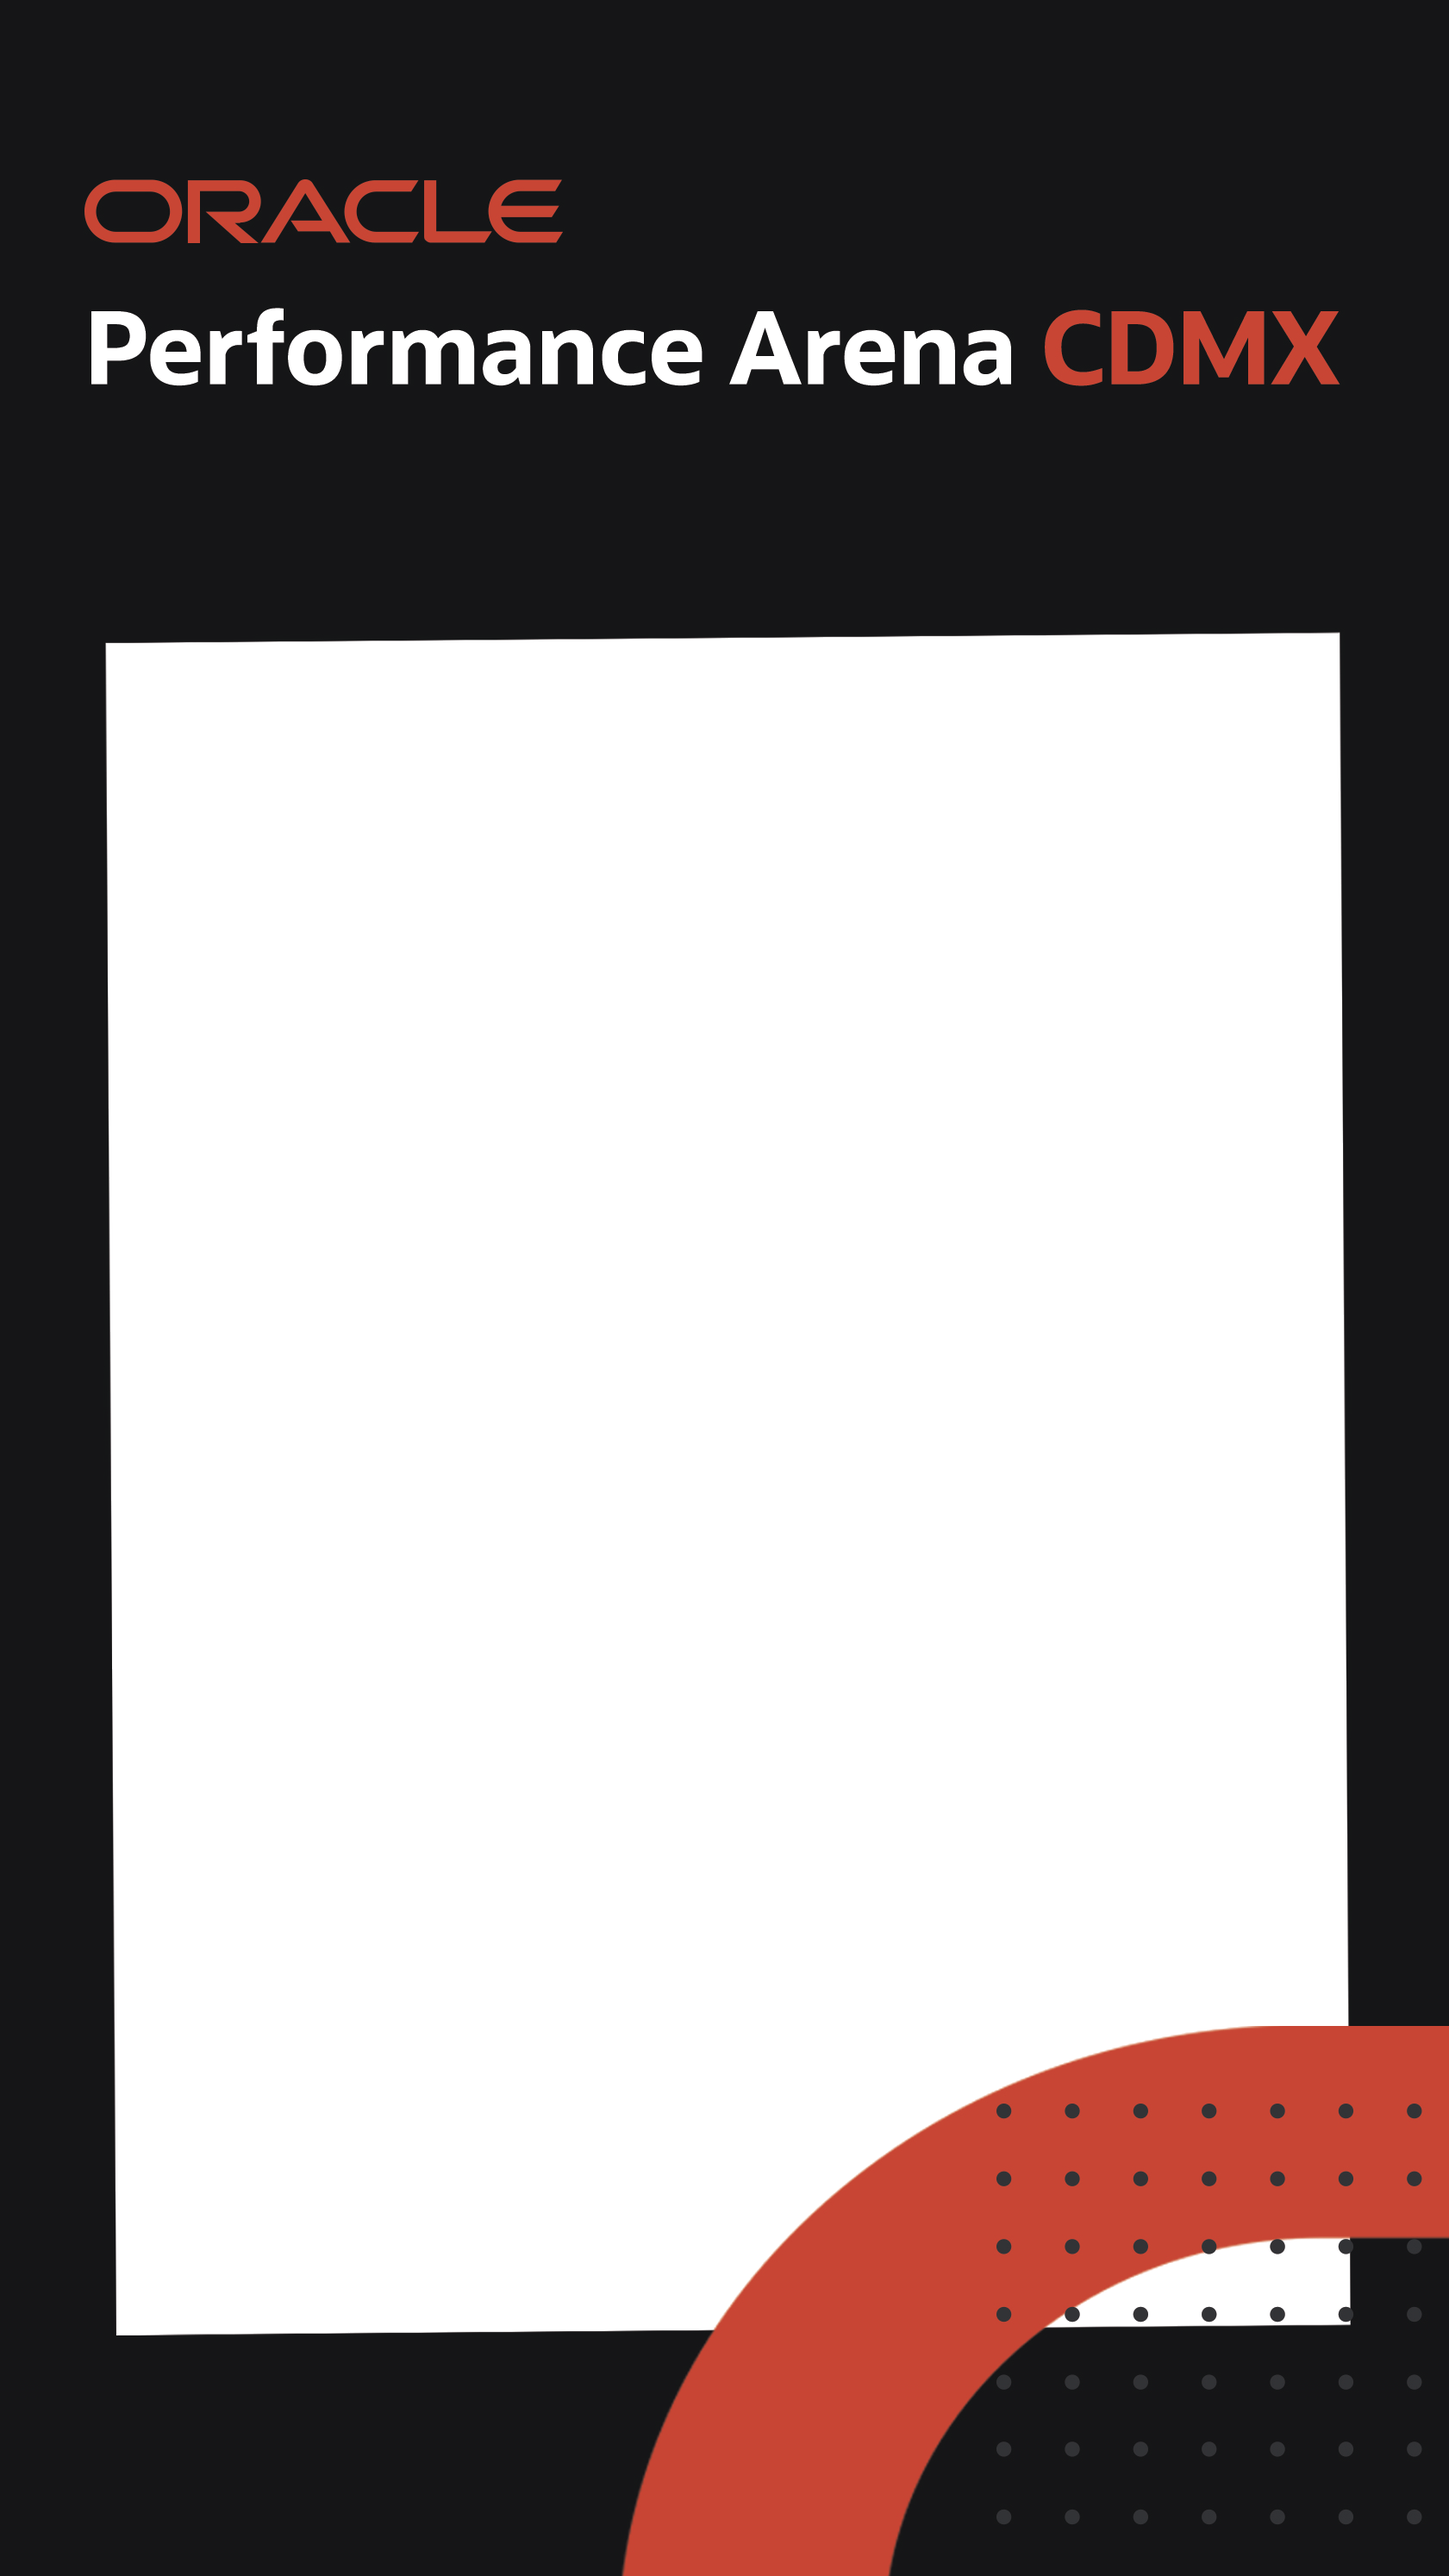
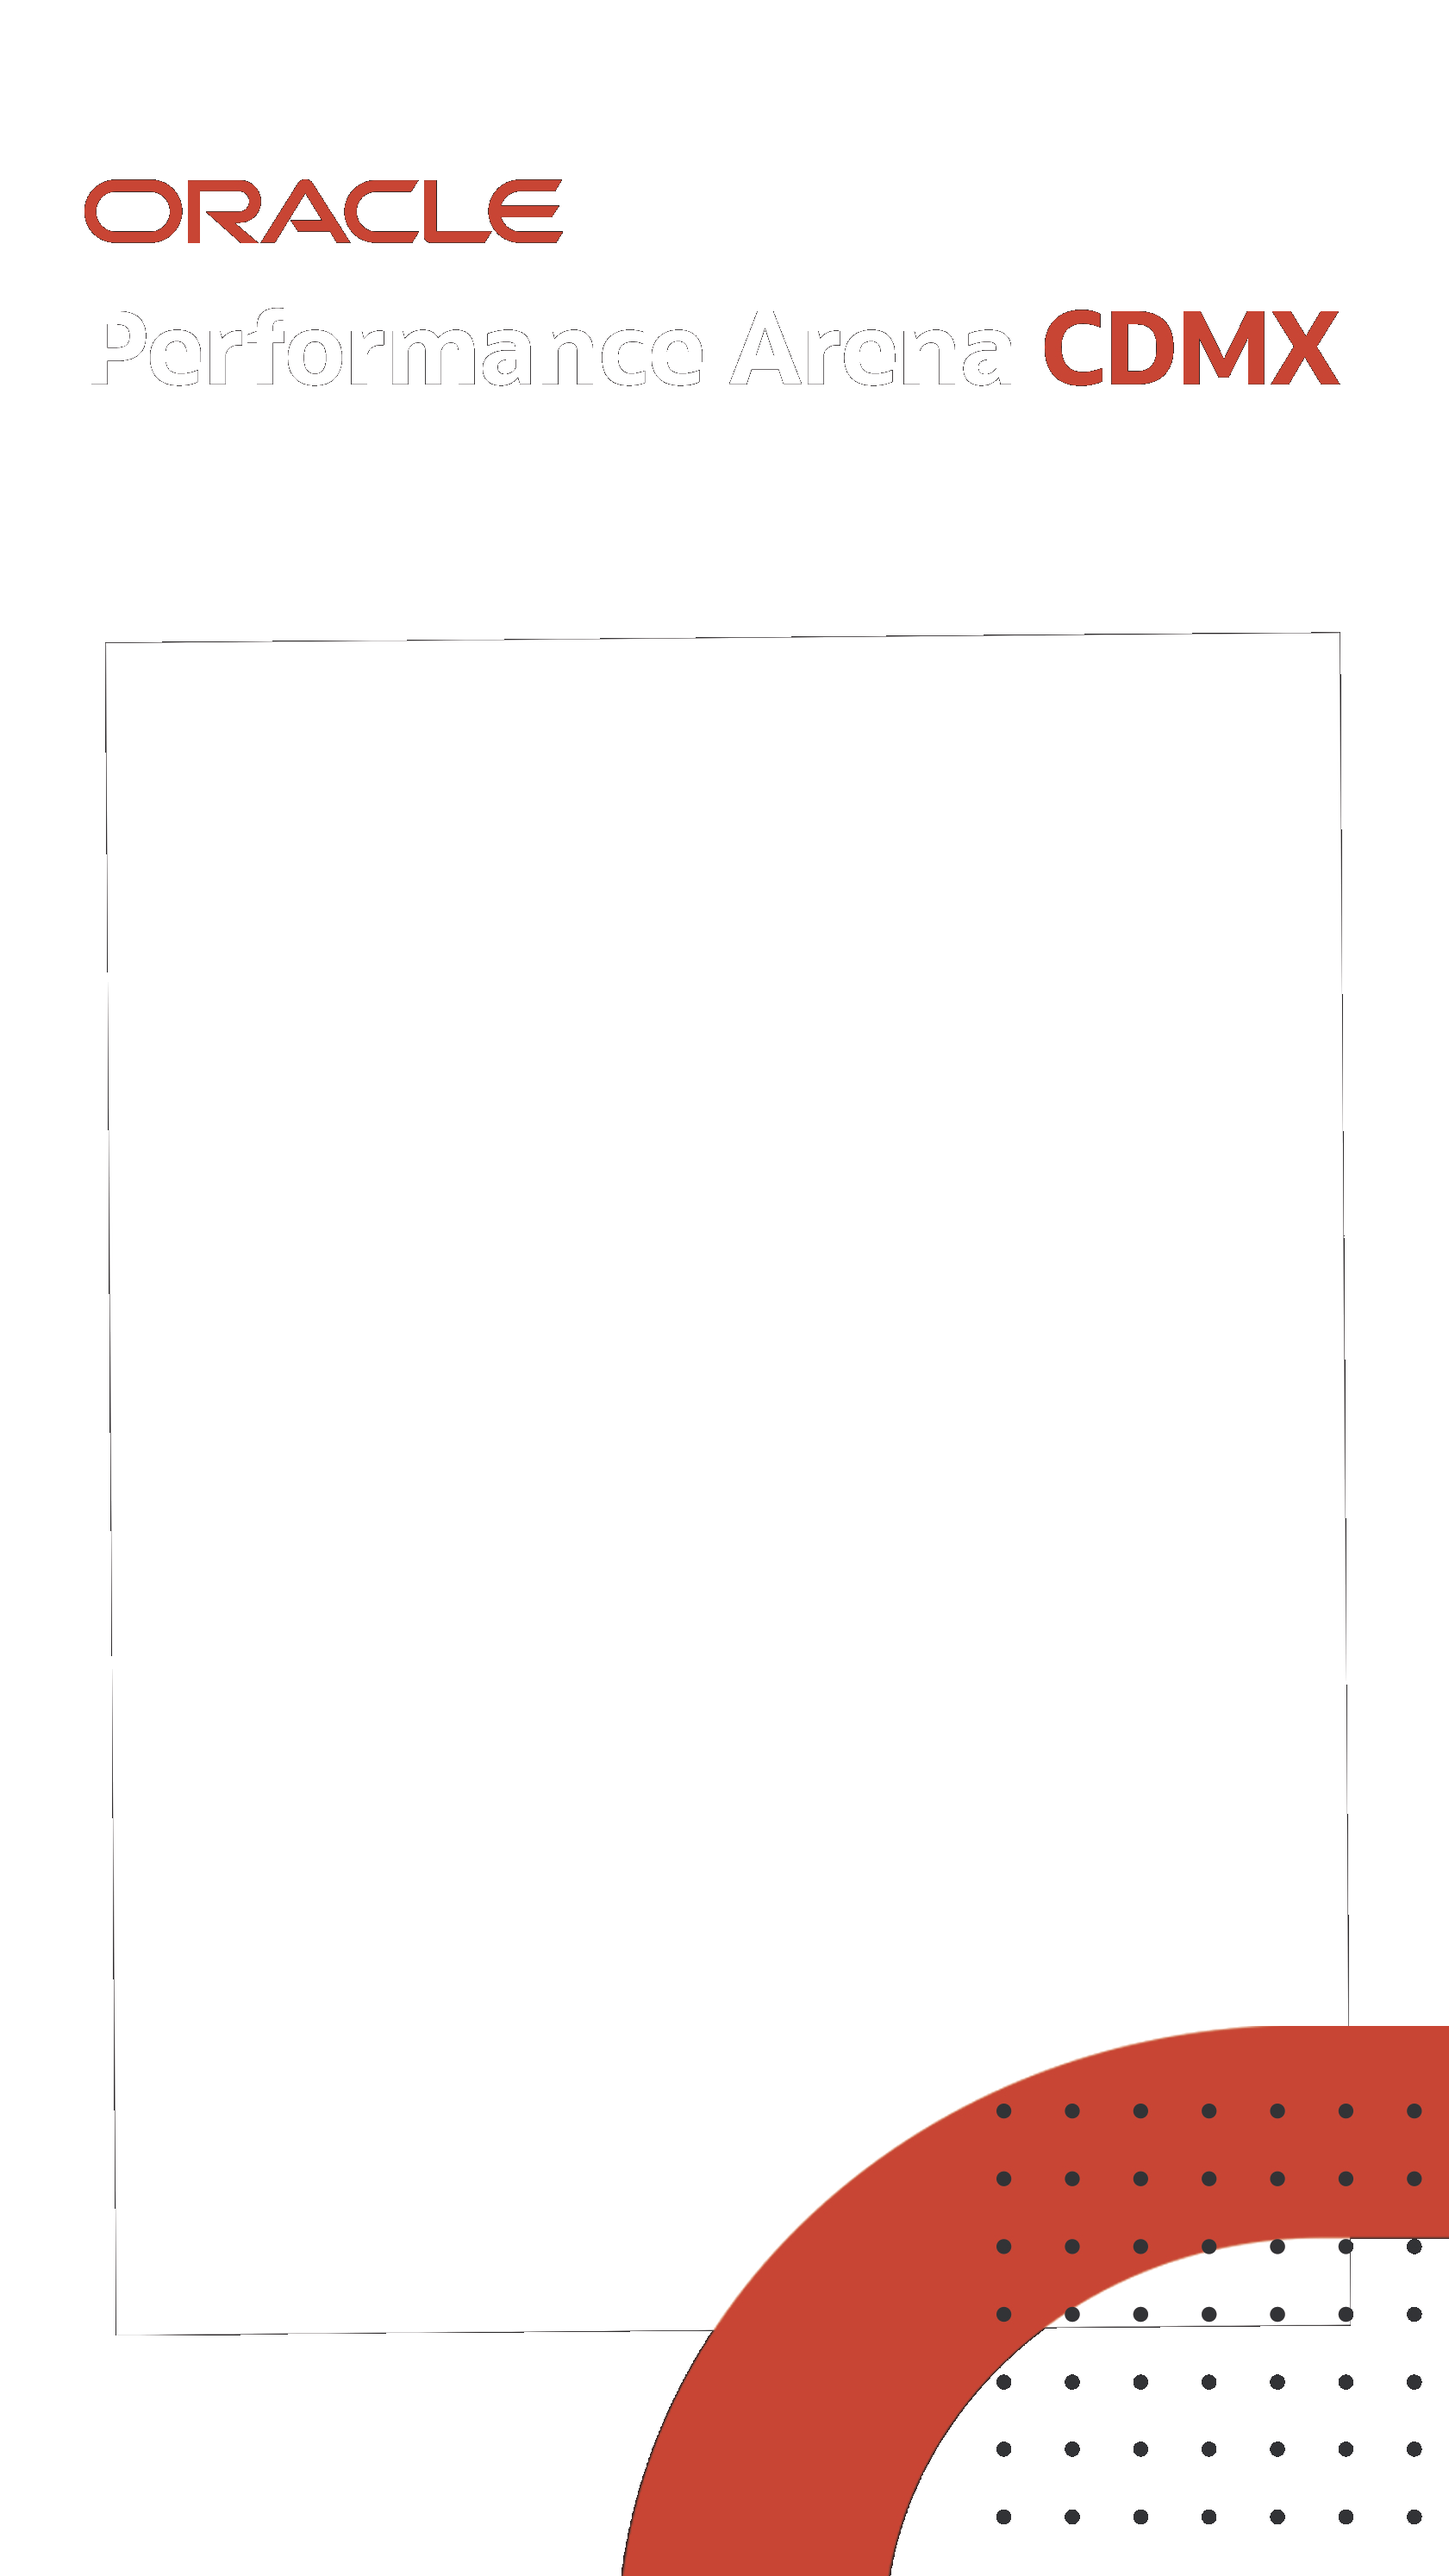
Restore gray digital frame background

diff --git a/app/(main)/api/proxy/route.ts b/app/(main)/api/proxy/route.ts
@@ -49,7 +49,7 @@ export async function POST(req: NextRequest) {
     const originalImageBuffer = Buffer.from(response.data);
 
     // Se agrega el fondo con presencia de marca
-    const backgroundPath = path.join(process.cwd(), "public", "oracle", "MArco Foto Digital.jpg");
+    const backgroundPath = path.join(process.cwd(), "public", "oracle", "marco-foto-digital-gray.jpg");
     const overlayPath = path.join(process.cwd(), "public", "oracle", "marco-foto-digital-overlay.png");
     const backgroundBuffer = await fs.readFile(backgroundPath);
     const overlayBuffer = await fs.readFile(overlayPath);

diff --git a/app/(main)/camera/page.tsx b/app/(main)/camera/page.tsx
@@ -156,7 +156,7 @@ export default function CameraPage() {
 
           <figure className="absolute inset-0 z-10">
             <Image
-              src="/oracle/MArco Foto Digital.jpg"
+              src="/oracle/marco-foto-digital-gray.jpg"
               alt="Marco decorativo"
               fill
               className="object-fill"
